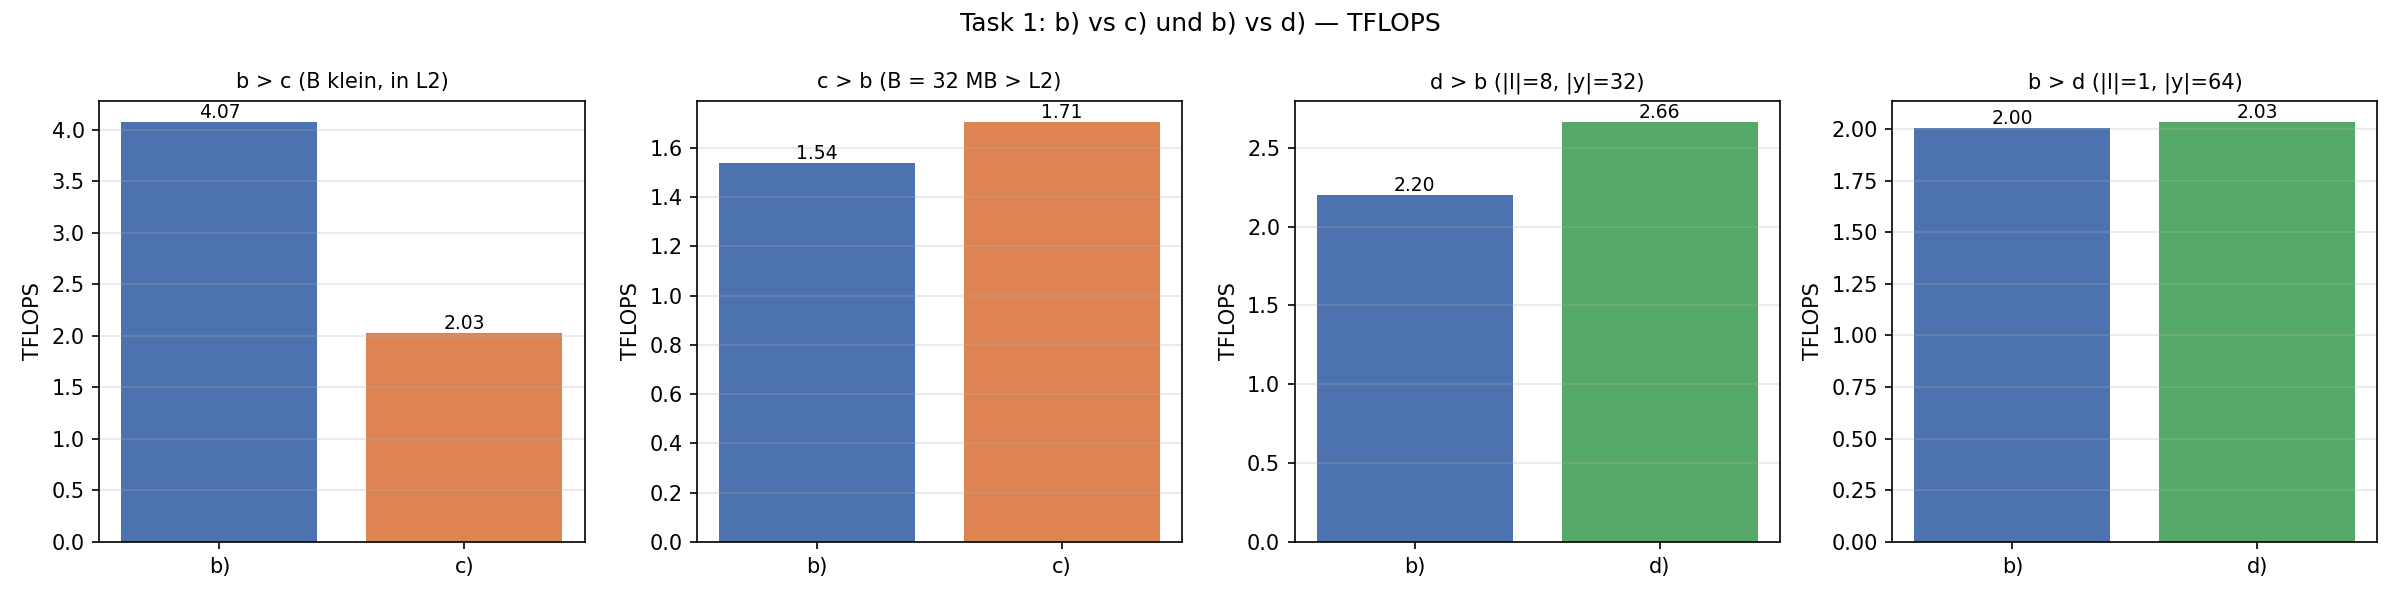
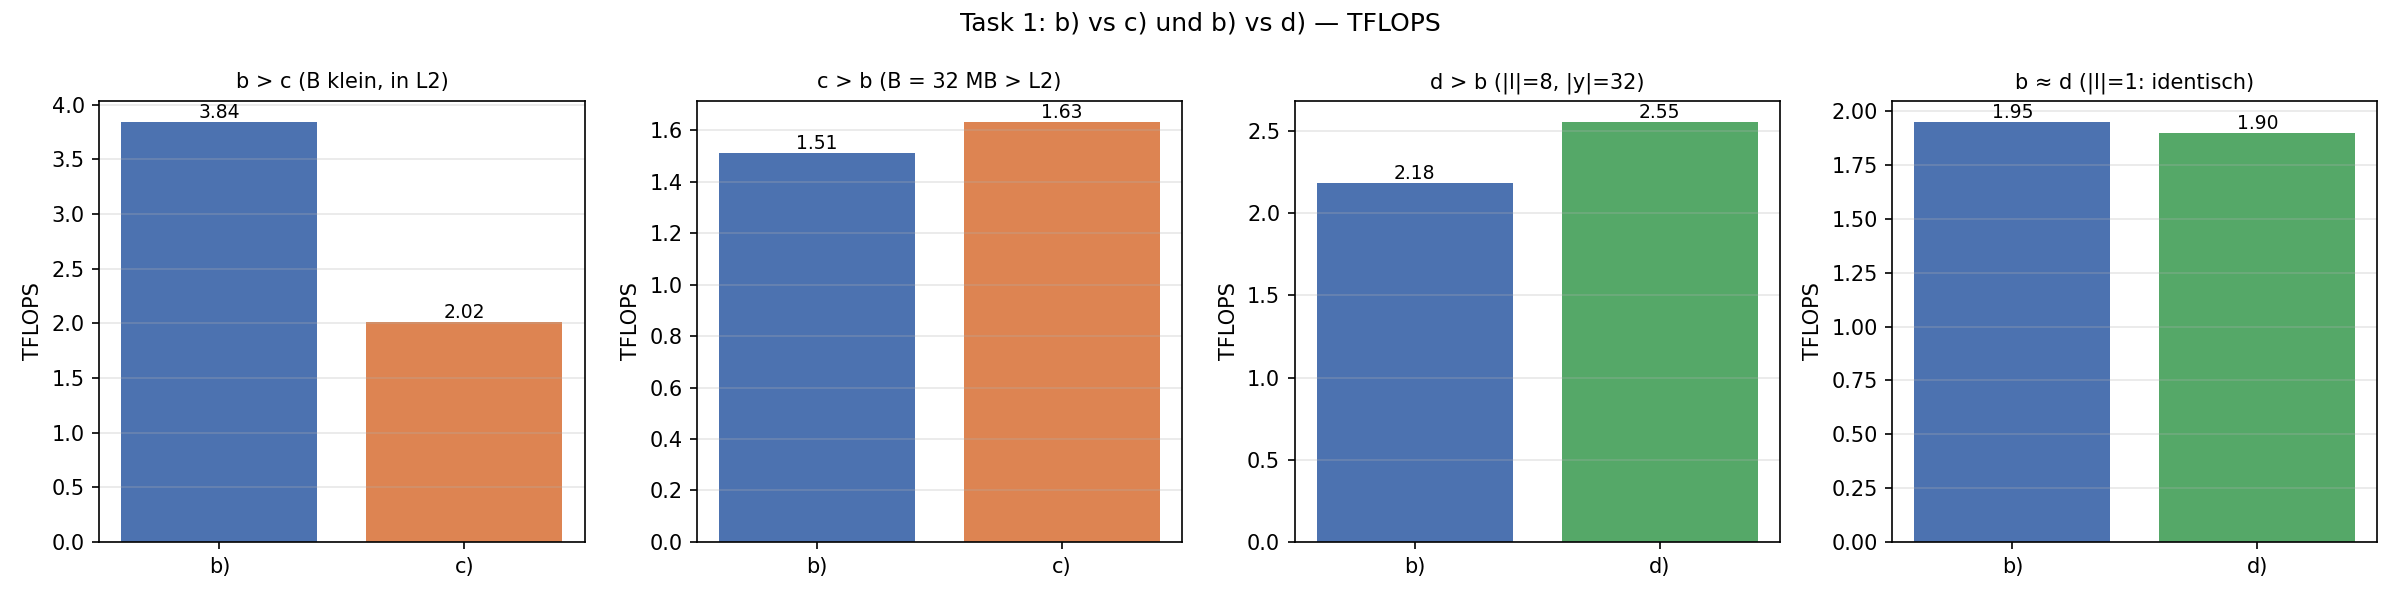
fix fix assignment 4

diff --git a/assignments/04_assignment/src/task_01.py b/assignments/04_assignment/src/task_01.py
@@ -457,7 +457,7 @@ def benchmark():
     cfg_bd_b = dict(E=2, A=4, B=2, C=4, K=8, L=1, X=128, Y=64, Z=128)
     res_bd_d = bench_compare("Setting wo d) vorne ist (L gross, Y klein)",
                              cfg_bd_d, [("b)", run_b), ("d)", run_d)])
-    res_bd_b = bench_compare("Setting wo b) vorne ist (L=1, Y gross)",
+    res_bd_b = bench_compare("Setting L=1: b) und d) sind algorithmisch identisch (Gleichstand)",
                              cfg_bd_b, [("b)", run_b), ("d)", run_d)])
 
     # e) - Quervergleich auf einer mittleren Konfiguration
@@ -474,7 +474,7 @@ def benchmark():
         ],
         "bd": [
             ("d > b (|l|=8, |y|=32)",     cfg_bd_d, res_bd_d),
-            ("b > d (|l|=1, |y|=64)",     cfg_bd_b, res_bd_b),
+            ("b ≈ d (|l|=1: identisch)",  cfg_bd_b, res_bd_b),
         ],
         "e":  [("Quervergleich b/d/e",    cfg_e,    res_e)],
     }
@@ -578,37 +578,37 @@ Task 1: Benchmark
   Setting wo b) vorne ist (B klein, passt in L2)
     dims = {'E': 2, 'A': 8, 'B': 2, 'C': 8, 'K': 2, 'L': 2, 'X': 128, 'Y': 64, 'Z': 128}
     FLOPs = 2.147e+09
-    b)           0.5271 ms     4.074 TFLOPS
-    c)           1.0592 ms     2.028 TFLOPS
+    b)           0.5588 ms     3.843 TFLOPS
+    c)           1.0648 ms     2.017 TFLOPS
 
   Setting wo c) vorne ist (B = 32 MB > L2)
     dims = {'E': 8, 'A': 2, 'B': 8, 'C': 8, 'K': 4, 'L': 4, 'X': 128, 'Y': 64, 'Z': 256}
     FLOPs = 6.872e+10
-    b)          44.6730 ms     1.538 TFLOPS
-    c)          40.2975 ms     1.705 TFLOPS
+    b)          45.4407 ms     1.512 TFLOPS
+    c)          42.1018 ms     1.632 TFLOPS
 
 === Vergleich b) vs d) ===
 
   Setting wo d) vorne ist (L gross, Y klein)
     dims = {'E': 2, 'A': 4, 'B': 2, 'C': 4, 'K': 2, 'L': 8, 'X': 128, 'Y': 32, 'Z': 128}
     FLOPs = 1.074e+09
-    b)           0.4882 ms     2.199 TFLOPS
-    d)           0.4030 ms     2.664 TFLOPS
+    b)           0.4916 ms     2.184 TFLOPS
+    d)           0.4204 ms     2.554 TFLOPS
 
-  Setting wo b) vorne ist (L=1, Y gross)
+  Setting L=1: b) und d) sind algorithmisch identisch (Gleichstand)
     dims = {'E': 2, 'A': 4, 'B': 2, 'C': 4, 'K': 8, 'L': 1, 'X': 128, 'Y': 64, 'Z': 128}
     FLOPs = 1.074e+09
-    b)           0.5357 ms     2.004 TFLOPS
-    d)           0.5281 ms     2.033 TFLOPS
+    b)           0.5505 ms     1.950 TFLOPS
+    d)           0.5647 ms     1.901 TFLOPS
 
 === Variante e) ===
 
   Quervergleich b) / d) / e)
     dims = {'E': 4, 'A': 2, 'B': 2, 'C': 2, 'K': 2, 'L': 2, 'X': 128, 'Y': 64, 'Z': 128}
     FLOPs = 2.684e+08
-    b)           0.0961 ms     2.792 TFLOPS
-    d)           0.0821 ms     3.271 TFLOPS
-    e)           0.2106 ms     1.275 TFLOPS
+    b)           0.1065 ms     2.521 TFLOPS
+    d)           0.0854 ms     3.141 TFLOPS
+    e)           0.2255 ms     1.190 TFLOPS
 
 Task 1: Plot
   Plot: /home/mla08/MLA/mla/assignments/04_assignment/src/task01_bc_vs_bd.png

diff --git a/sphinx/source/chapters/04_tensor_contractions_on_gpus/loesung.rst b/sphinx/source/chapters/04_tensor_contractions_on_gpus/loesung.rst
@@ -155,8 +155,7 @@ dasselbe – eine M-Dim wandert vom Grid in eine innere Schleife.
 **Mapping**
 
 * GEMM-Dimensionen: ``x``, ``y``, ``z`` (wie b)
-* Sequentialisiert: ``k``, ``l``, Tiles entlang ``y``, **zusätzlich
-  ``b``**
+* Sequentialisiert: ``k``, ``l``, Tiles entlang ``y``, zusätzlich ``b``
 * Parallelisiert: ``e``, ``a``, ``c`` sowie Tiles entlang ``x``, ``z``
 
 Das Grid schrumpft um den Faktor ``|b|``: ``(E·A, C, ⌈X/tx⌉·⌈Z/tz⌉)``.
@@ -208,8 +207,8 @@ Task 1d: GEMM = (x, y·l, z), l und y gemerged
 ----------------------------------------------
 
 *dritte* Skizze: ``# Matmul shape = (x, z, y * l)``
-mit nur noch einer äußeren ``for k``-Schleife. Wir greifen das volle Merging
-(Variante 4) hier nicht auf ``(x, z, y·l·k)``.
+mit nur noch einer äußeren ``for k``-Schleife. Das vollständige Merging bis
+``(x, z, y·l·k)`` (also inklusive ``k``) treiben wir hier bewusst nicht weiter.
 
 **Mapping**
 
@@ -282,7 +281,7 @@ mma-Aufrufs statt über das Grid verteilt.
 * Sequentialisiert: ``k``, ``l``, Tiles entlang ``y``
 * Parallelisiert: ``a``, ``b``, ``c`` sowie Tiles entlang ``e``, ``x``, ``z``
 
-Batch-Dim direkt über mehrere SM-Lanes / Mma-Instructions abgedeckt, statt ``e``
+Die Batch-Dim wird direkt über mehrere mma-Instruktionen abgedeckt, statt ``e``
 in den Grid-Index zu falten. Akkumulator ist 3D:
 
 .. code-block:: python
@@ -340,23 +339,23 @@ FP32-Akkumulator, GEMM-Tile ``(32, 32, 32)``:
      - Schneller
    * - ``B ≈ 1 MB (in L2), |a|·|c|=64`` (FLOPs ≈ 2.15·10⁹)
      - b)
-     - 0.527
-     - **4.07**
-     - **b) (2.0×)**
+     - 0.559
+     - **3.84**
+     - **b) (1.9×)**
    * -
      - c)
-     - 1.059
-     - 2.03
+     - 1.065
+     - 2.02
      -
    * - ``B ≈ 32 MB (> L2), Grid 4096`` (FLOPs ≈ 6.87·10¹⁰)
      - b)
-     - 44.67
-     - 1.54
-     - **c) (1.11×)**
+     - 45.44
+     - 1.51
+     - **c) (1.08×)**
    * -
      - c)
-     - 40.30
-     - **1.71**
+     - 42.10
+     - **1.63**
      -
 
 .. list-table:: b) vs d)
@@ -370,23 +369,23 @@ FP32-Akkumulator, GEMM-Tile ``(32, 32, 32)``:
      - Schneller
    * - ``|l|=8, |y|=32, X=Z=128`` (FLOPs ≈ 1.07·10⁹)
      - b)
-     - 0.488
-     - 2.20
-     - **d) (1.21×)**
+     - 0.492
+     - 2.18
+     - **d) (1.17×)**
    * -
      - d)
-     - 0.403
-     - **2.66**
+     - 0.420
+     - **2.55**
      -
    * - ``|l|=1, |y|=64, X=Z=128`` (FLOPs ≈ 1.07·10⁹)
      - b)
-     - 0.536
-     - 2.00
+     - 0.551
+     - 1.95
      - ≈ (Gleichstand)
    * -
      - d)
-     - 0.528
-     - **2.03**
+     - 0.565
+     - 1.90
      -
 
 .. list-table:: Quervergleich b) / d) / e), ``|e|=4``
@@ -398,17 +397,17 @@ FP32-Akkumulator, GEMM-Tile ``(32, 32, 32)``:
      - TFLOPS
      - vs b)
    * - b)
-     - 0.096
-     - 2.79
+     - 0.107
+     - 2.52
      - 1.00×
    * - d)
-     - 0.082
-     - **3.27**
-     - 1.17×
+     - 0.085
+     - **3.14**
+     - 1.25×
    * - e)
-     - 0.211
-     - 1.28
-     - 0.46×
+     - 0.226
+     - 1.19
+     - 0.47×
 
 .. figure:: ../../../../assignments/04_assignment/src/task01_bc_vs_bd.png
    :align: center
@@ -431,20 +430,20 @@ Beobachtungen und Vermutungen
 ------------------------------
 
 * **b) vs c)**: Der Ausgang hängt daran, ob das B-Tensor in den L2 passt.
-  Bei kleinem ``B`` (≈ 1 MB) gewinnt b) klar (4.07 vs 2.03 TFLOPS): b) zieht
+  Bei kleinem ``B`` (≈ 1 MB) gewinnt b) klar (3.84 vs 2.02 TFLOPS): b) zieht
   dieselben B-Tiles gratis aus dem L2, sodass c)s sequentialisiertem ``b`` nur
   der Occupancy-Nachteil des kleineren Grids bleibt. Sobald ``B`` den 24 MB L2
-  überschreitet (hier ≈ 32 MB), dreht sich das Bild: c) ist ~11 % schneller
-  (1.71 vs 1.54 TFLOPS), weil b)s ``|b|``-fache B-Nachladung nun echte
+  überschreitet (hier ≈ 32 MB), dreht sich das Bild: c) ist ~8 % schneller
+  (1.63 vs 1.51 TFLOPS), weil b)s ``|b|``-fache B-Nachladung nun echte
   DRAM-Bandbreite kostet, während c) das B-Tile pro Block über die b-Schleife
   im L2 hält. Der L2-Reuse-Vorteil von c) ist also real, aber an ein großes,
   nicht-cachebares ``B`` gebunden – bei kleinen, L2-residenten Tensoren
   existiert er schlicht nicht.
-* **b) vs d)**: wie erwartet. d) mit ~21 % vorne bei ``|l|=8``,
+* **b) vs d)**: wie erwartet. d) mit ~17 % vorne bei ``|l|=8``,
   Vorteil verschwindet bei ``|l|=1``. So wie wir es in VL angesprochen hatten: mehr
   K-Merging → größere innere GEMM-K → bessere Tensor-Core-Auslastung,
   aber nur wenn die gemergte Dim ``>1`` ist.
-* **b/d/e**: e) ist ≈ 2,5× langsamer als d). Vermutung: ``te=2`` mit
+* **b/d/e**: e) ist ≈ 2,6× langsamer als d). Vermutung: ``te=2`` mit
   ``|e|=4`` halbiert das Grid und bläht den Akkumulator auf
   ``(te, tx, tz)`` – Occupancy sinkt
 
@@ -538,8 +537,8 @@ Damit die Kontraktion ``≈ 2 · 2048³`` FLOPs hat, wählen wir
 
 und damit :math:`2 \cdot 2 \cdot 2 \cdot 2 \cdot 2 \cdot 8 \cdot 4
 \cdot 256^3 \approx 1{,}72 \cdot 10^{10}` FLOPs – exakt der
-2048³-Matmul-Workload. Speicher (FP16): :math:`A \approx 67` MB,
-:math:`B \approx 33` MB, :math:`C, D \approx 4` MB jeweils, also unkritisch.
+2048³-Matmul-Workload. Speicher (FP16): :math:`A \approx 34` MB,
+:math:`B \approx 17` MB, :math:`C, D \approx 2` MB jeweils, also unkritisch.
 
 Tile-Geometrie ``(tx, ty, tz) = (64, 32, 64)``.
 
@@ -823,7 +822,7 @@ Auszug:
   gleichbleibender Arbeit), brechen am Stufen-Übergang abrupt ein
   (gleicher Zähler, doppelte Arbeit) und wachsen dann wieder linear.
 * Der Peak knapp vor :math:`|n| = 64` (≈ 33 TFLOPS) ist ähnlich hoch
-  wie der Peak knapp vor :math:`|n| = 128` (≈ 43 TFLOPS) – die zweite
+  wie der Peak knapp vor :math:`|n| = 128` (≈ 38 TFLOPS) – die zweite
   Stufe ist sogar etwas effizienter, weil der Launch-Overhead konstant
   bleibt, die Arbeit aber doppelt so groß ist.
 * Zweierpotenzen sind in dieser Konfiguration **nicht besser**, sondern
@@ -932,7 +931,7 @@ Erkenntnisse: Sweep über ``|k|`` (Task 3b.2)
   Zweierpotenz-Bonus, sondern die direkte Folge davon, dass diese
   Werte zufälligerweise auch Vielfache von ``tk = 32`` sind. Würde
   man ``tk = 64`` wählen, wären 32 und 96 plötzlich schlechte Werte.
-* Die maximalen TFLOPS dieses Kernels (~36 TFLOPS bei kleinem Setup)
+* Die maximalen TFLOPS in diesem :math:`|k|`-Sweep (~36 TFLOPS)
   liegen klar unter dem Matmul-Peak aus Assignment 03 (~75 TFLOPS).
   Grund: das Grid hat hier nur :math:`|a| \cdot |b| \cdot
   \lceil n/64 \rceil \cdot \lceil m/64 \rceil = 16 \cdot 16 = 256`
@@ -953,9 +952,14 @@ Praktische Konsequenz
   *autotuning* der Tile-Shapes oder *Padding der Eingaben* auf
   Vielfache der Tile-Größe (das verschiebt die Verlust-Periodizität,
   beseitigt sie aber nicht).
-* Die Sägezahn-Charakteristik im :math:`|k|`-Sweep ist genau das
-  Symptom, das in der Vorlesung als *Wave Quantization* angesprochen
-  wurde – nur eben innerhalb eines Blocks statt zwischen Blocks.
+* Die Sägezahn-Charakteristik im :math:`|k|`-Sweep ist das Symptom der
+  *Tile-Quantisierung*: die K-Dimension wird durch ``⌈|k|/tk⌉`` K-Tiles
+  auf ein Vielfaches von ``tk = 32`` gepaddet, und die Arbeit auf den
+  Padding-Werten fließt nicht in nutzbare FLOPs. Da :math:`|m|` und
+  :math:`|n|` hier fix sind, bleibt die Blockzahl (256) über den ganzen
+  Sweep konstant – der Effekt ist rein blockintern und nicht mit der
+  *Wave Quantization* (Auslastungsverlust, wenn die Gesamtzahl der Blöcke
+  kein Vielfaches der gleichzeitig laufenden Wave ist) zu verwechseln.
 
 Beiträge
 =========
